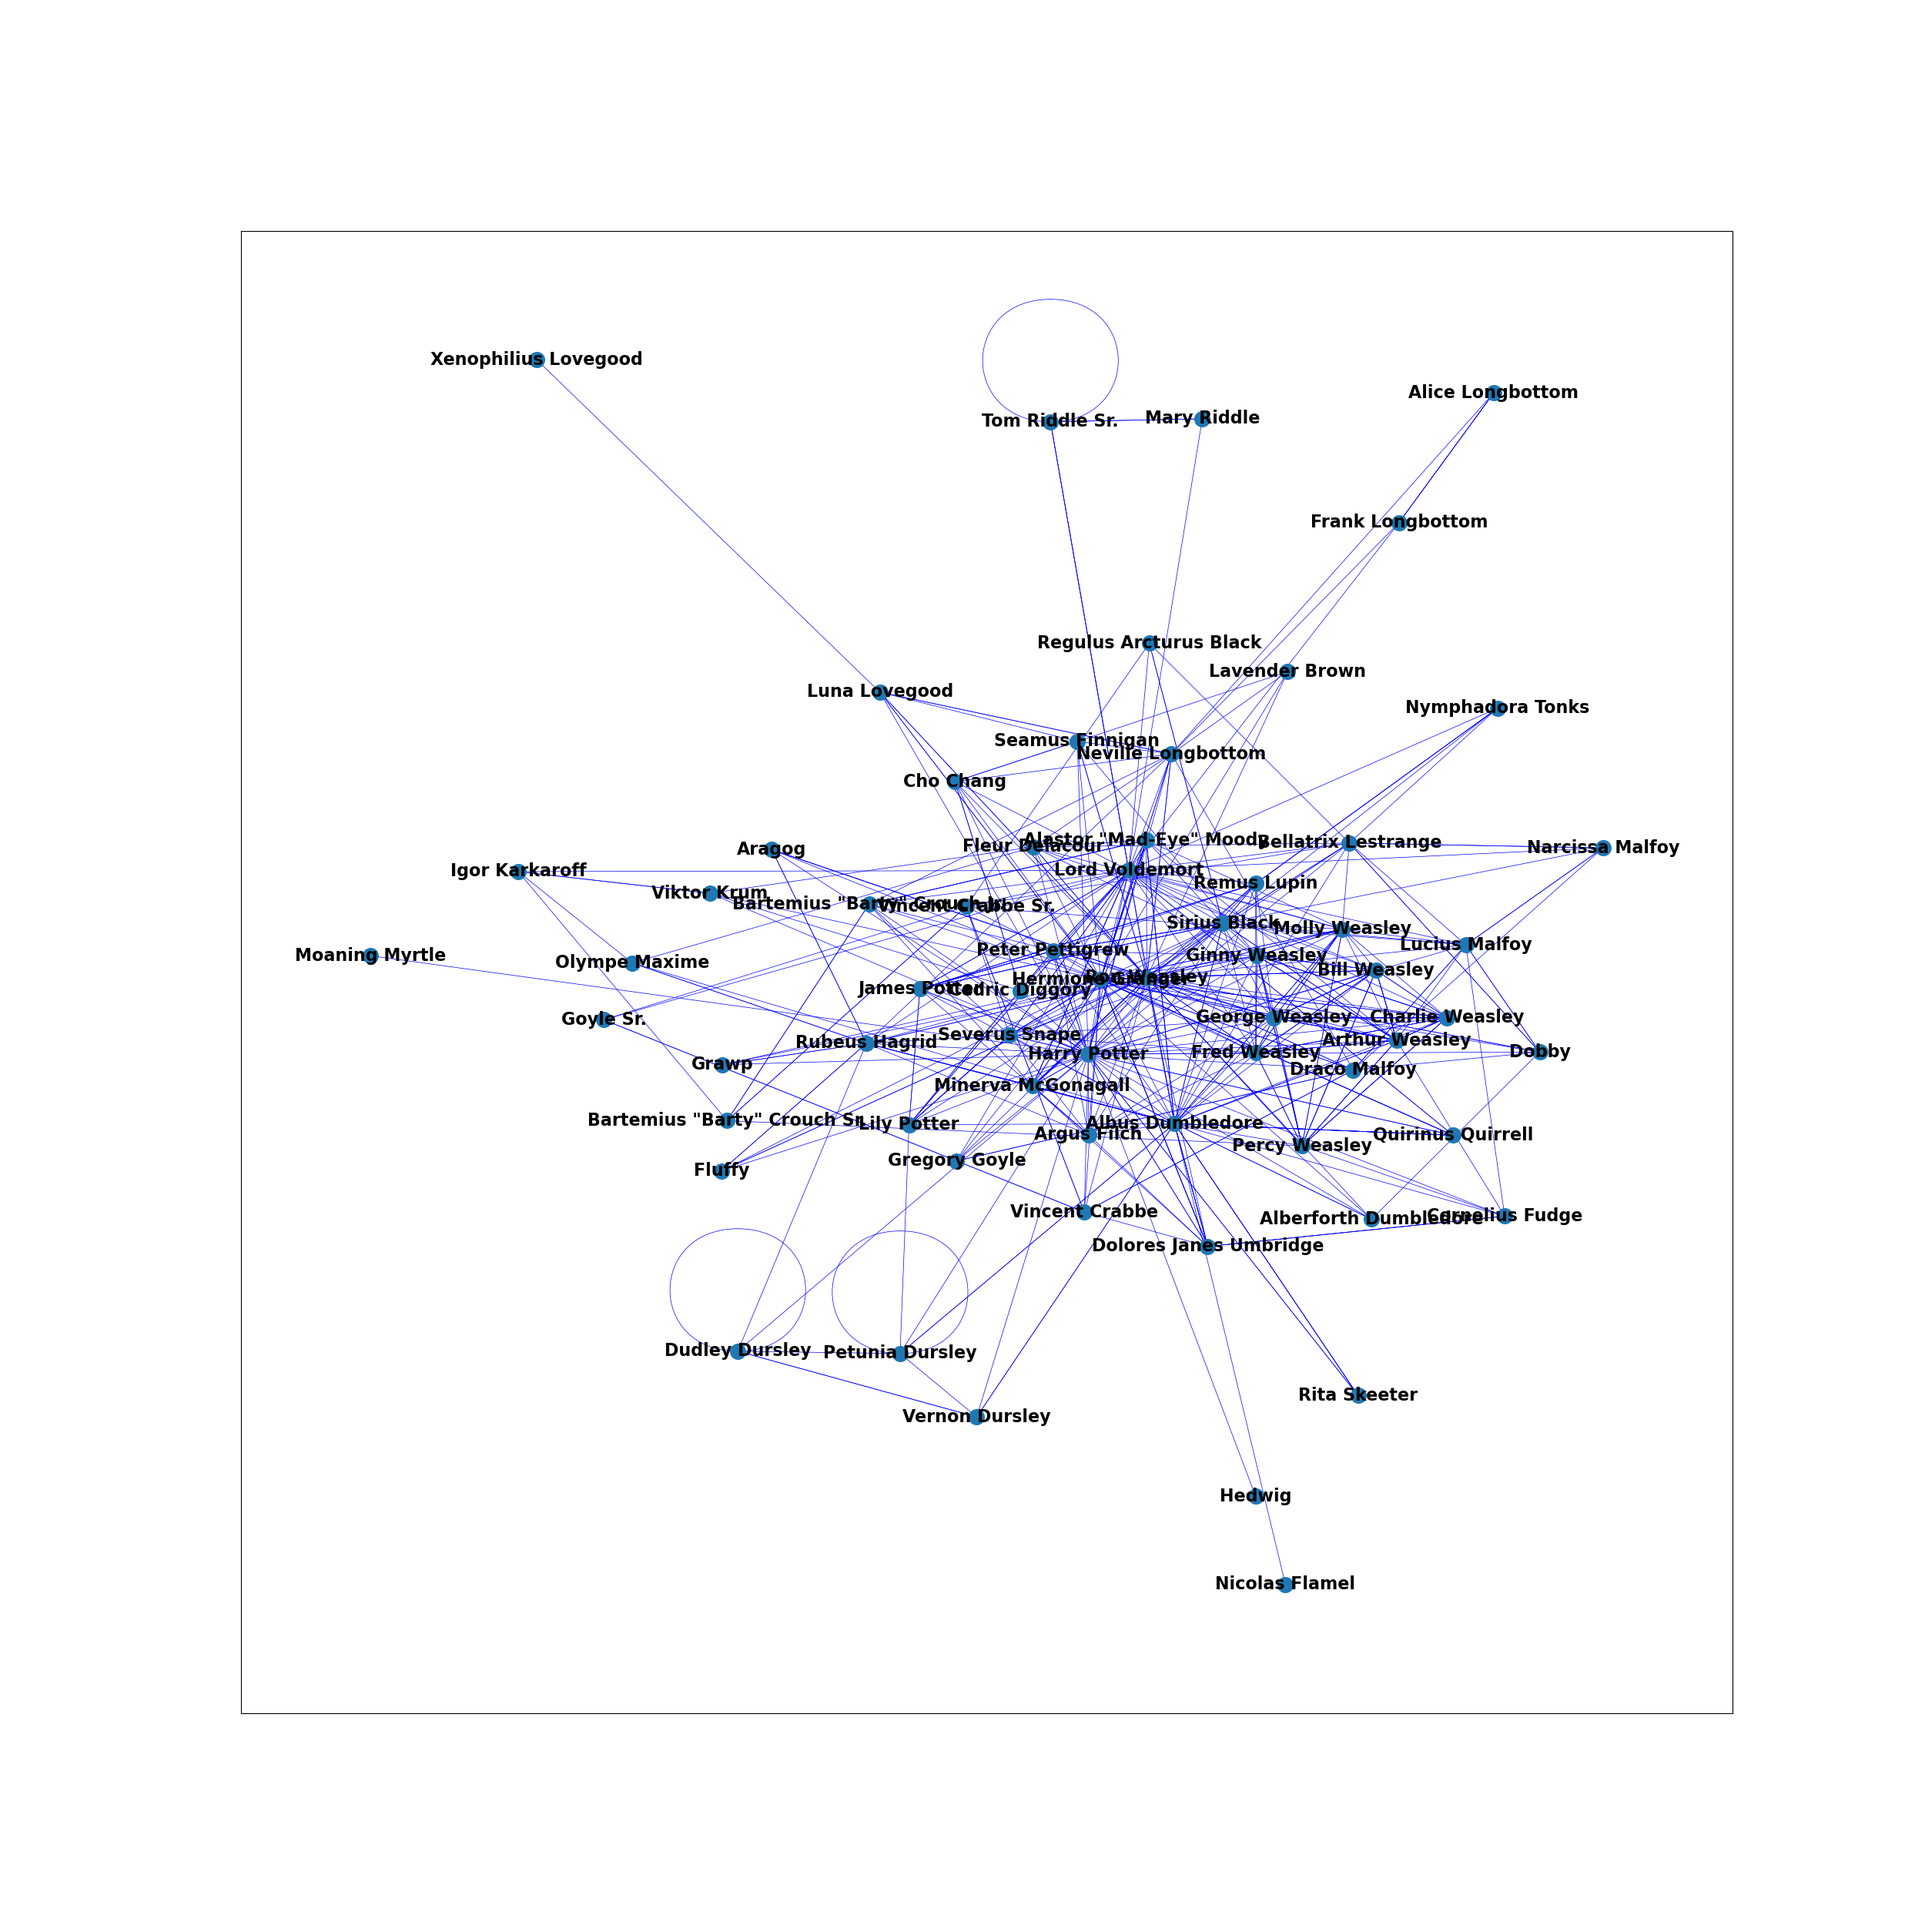
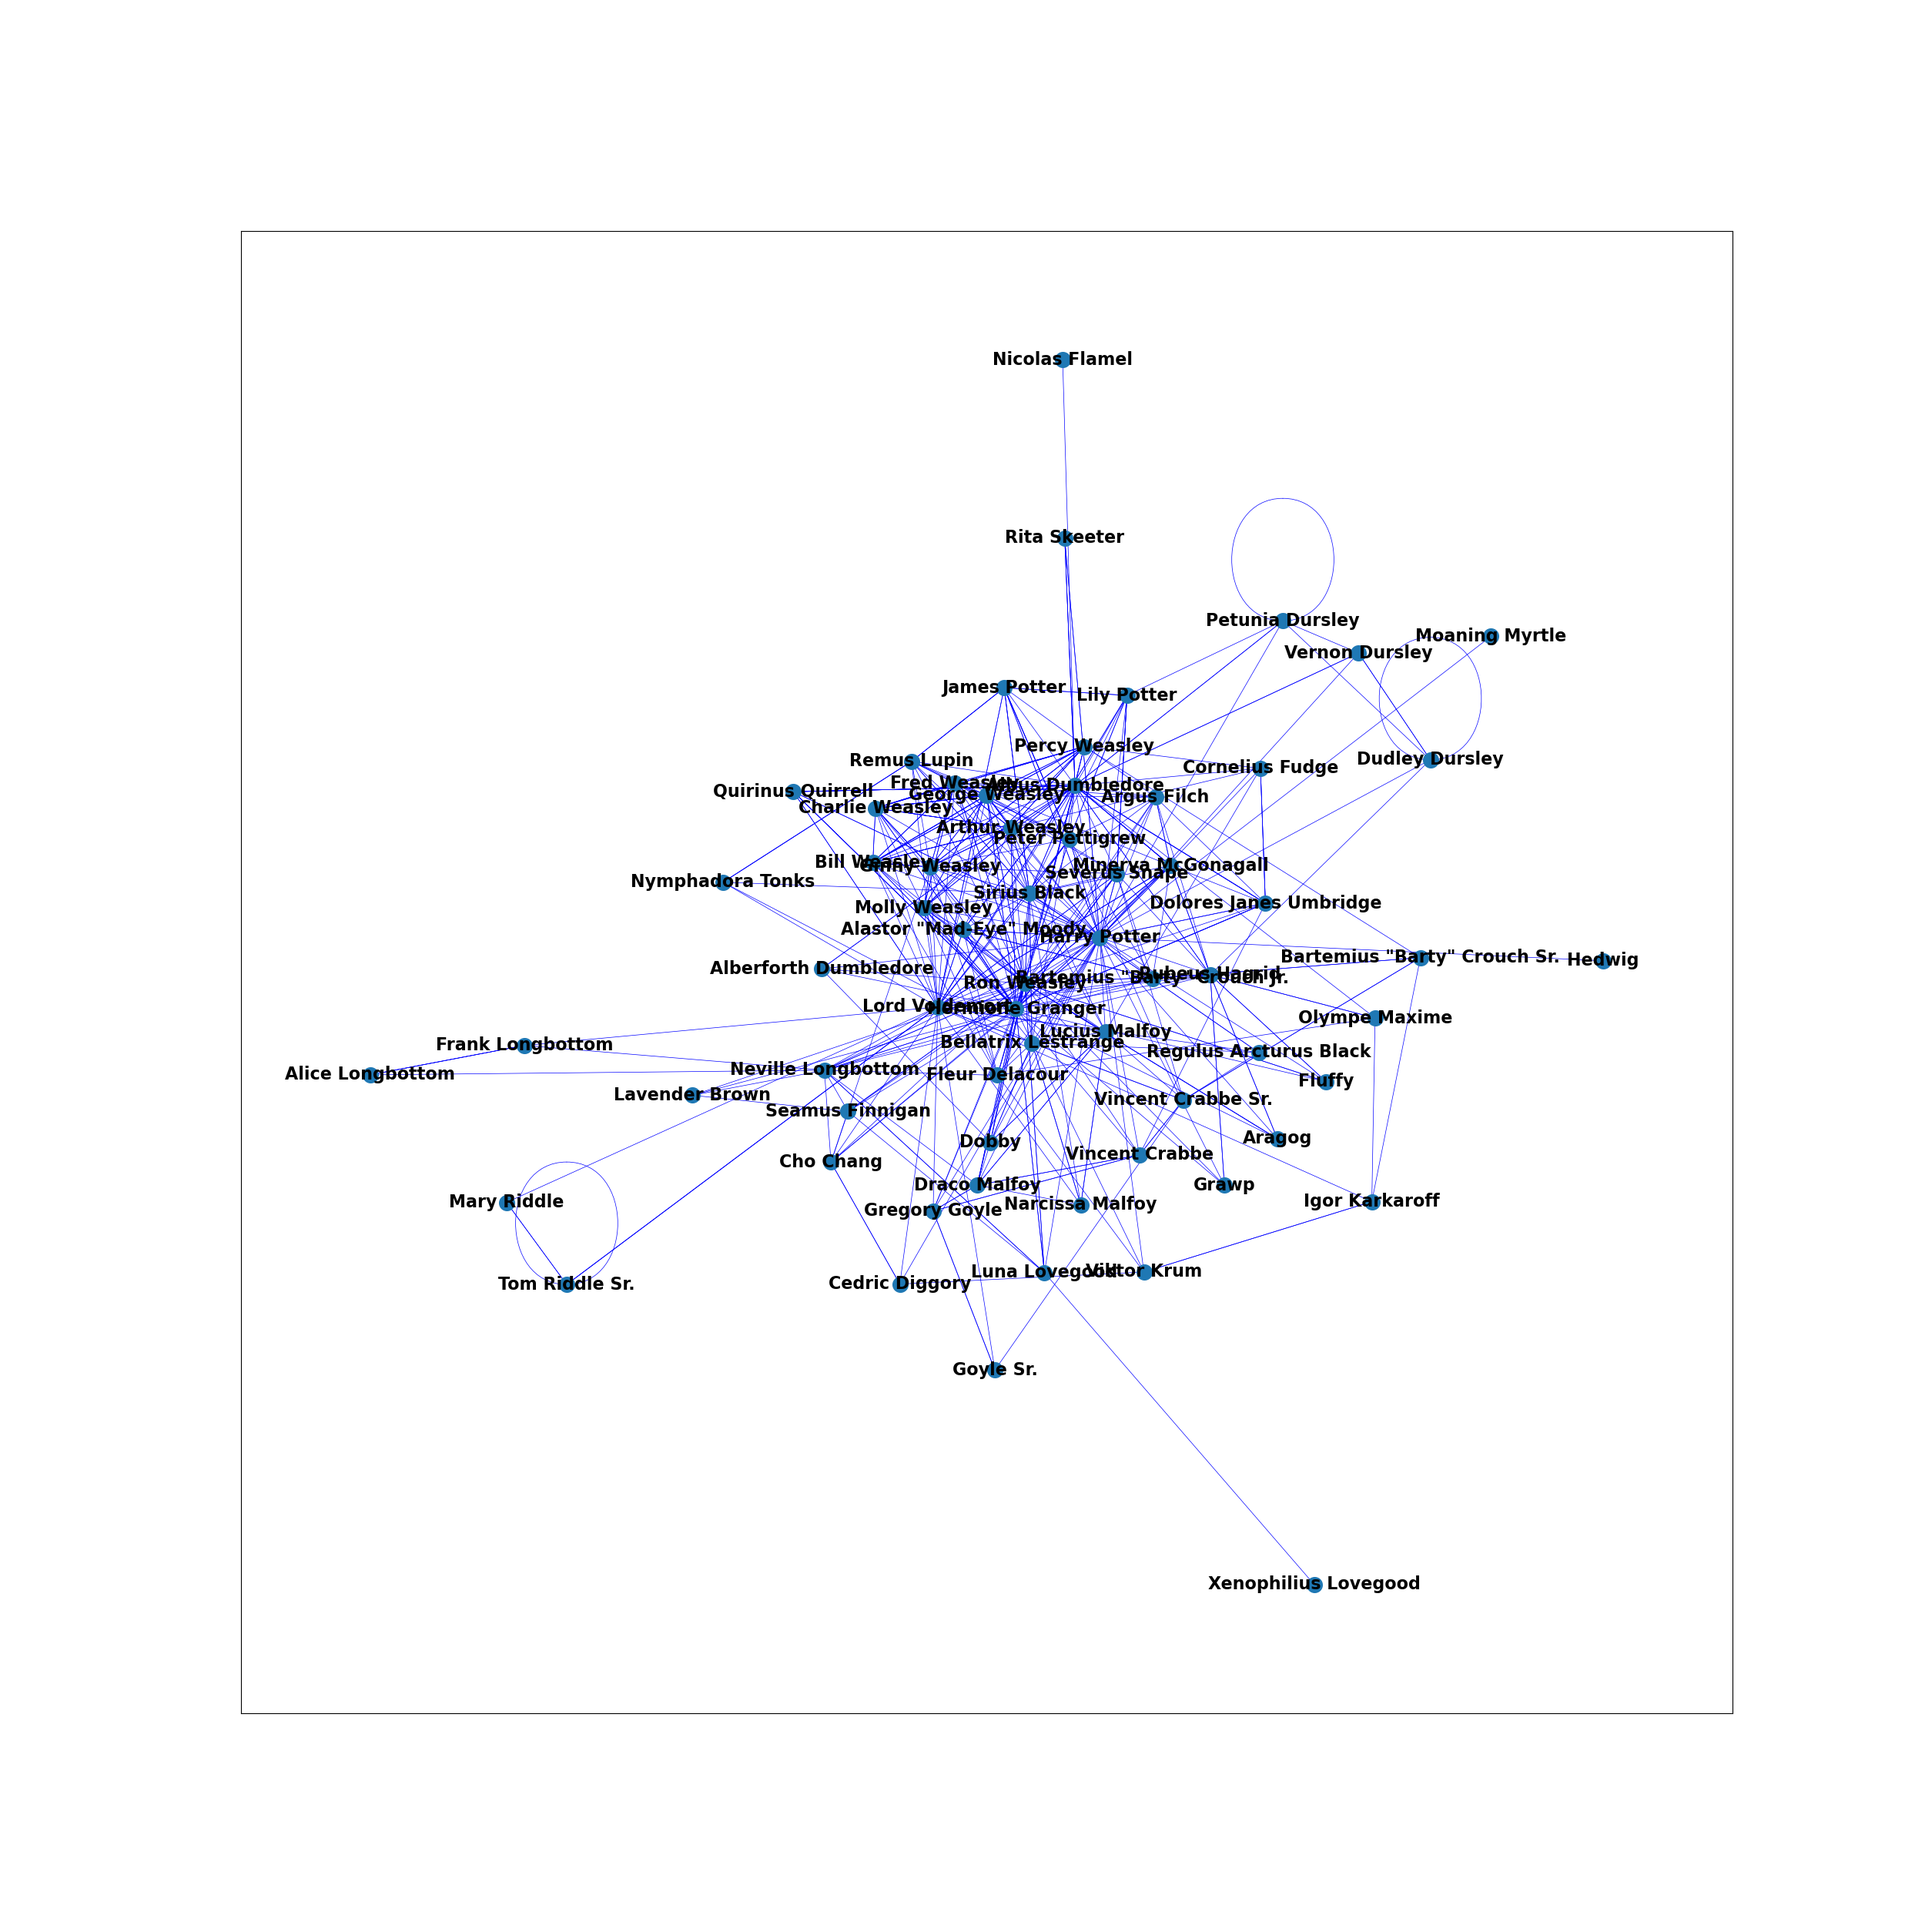
heatmap

diff --git a/NetworkX.py b/NetworkX.py
@@ -5,6 +5,29 @@ import matplotlib.pyplot as plt
 import matplotlib.colors as mcolors
 import seaborn as sns
 
+def draw(G, pos, measure_name):
+    measures = nx.degree_centrality(graph)
+    if (measure_name == "Closeness"):
+        measures = nx.closeness_centrality(graph)
+    elif (measure_name == "Degree"):
+        measures = nx.degree_centrality(graph)
+    elif (measure_name == "Eigenvector"):
+        measures = nx.eigenvector_centrality(graph)
+
+    nodes = nx.draw_networkx_nodes(G, pos, node_size=250, cmap=plt.cm.plasma,
+                                   node_color=list(measures.values()),
+                                   nodelist=measures.keys())
+    nodes.set_norm(mcolors.SymLogNorm(linthresh=0.01, linscale=1))
+
+    # labels = nx.draw_networkx_labels(G, pos)
+    edges = nx.draw_networkx_edges(G, pos)
+
+    plt.title(measure_name)
+    plt.colorbar(nodes)
+    plt.axis('off')
+    plt.savefig("grafici/heatmap_" + measure_name)
+    plt.show()
+
 def draw_network(pos, type):
     plt.figure(figsize=(25, 25))
     plt.figure(3, figsize=(25, 25))
@@ -73,59 +96,14 @@ for i in range(0, len(source_list)):
 
 graph = nx.Graph()
 graph.add_edges_from(edges_list)
-#pos = nx.spring_layout(graph)
 
-draw_network(nx.spring_layout(graph), "spring")
-'''draw_network(nx.kamada_kawai_layout(graph), "kamada")
+'''draw_network(nx.spring_layout(graph), "spring")
+draw_network(nx.kamada_kawai_layout(graph), "kamada")
 draw_network(nx.random_layout(graph), "random")
 draw_network(nx.shell_layout(graph), "shell")
-draw_network(nx.spiral_layout(graph), "spiral")'''
+draw_network(nx.spiral_layout(graph), "spiral")
 
-'''plt.figure(3, figsize=(20, 20))
-nx.draw_networkx_nodes(graph, nx.kamada_kawai_layout(graph), node_size=200)
-nx.draw_networkx_edges(graph, nx.kamada_kawai_layout(graph), edgelist=edges_list, edge_color='b', width=0.5)
-nx.draw_networkx_labels(graph, nx.kamada_kawai_layout(graph), labels=mapping, font_size=16,
-                        font_family='sans-serif', font_weight='bold')
-plt.savefig('grafici/network_kamada')
-plt.show()'''
-
-'''
-#closeness centrality
-clos = nx.closeness_centrality(graph)
-
-clos_df = pd.DataFrame(clos.items(), columns=["keys", "values"])
-plot_order = clos_df.groupby('keys')['values'].sum().sort_values(ascending=False).index.values
-
-values = clos_df.sort_values(["values"], ascending=False)
-matplotlib.rc_file_defaults()
-print(plot_order)
-ax1 = sns.set_style(style=None, rc=None)
-fig, ax1 = plt.subplots(figsize=(12,6))
-sns.lineplot(data=values["values"], marker='o', sort=True, ax=ax1)
-ax2 = ax1.twinx()
-plt.figure(figsize=(18,6))
-sns.barplot(x=list(clos.keys()), y=list(clos.values()), order=plot_order)
-plt.show()'''
-
-
-
-
-'''plot_centrality("Betweeness", graph)
-plot_centrality("Closeness", graph)
-plot_centrality("Degree", graph)
-plot_centrality("Eigenvector", graph)
-'''
-
-'''clos = nx.closeness_centrality(graph)
-
-clos_df = pd.DataFrame(clos.items(), columns=["keys", "values"])
-plot_order = clos_df.groupby('keys')['values'].sum().sort_values(ascending=False).index.values
-
-plt.figure(figsize=(18, 8))
-sns.histplot(list(clos.values()), kde=True)
-plt.show()'''
-
-'''plot_centrality_by_key("Betweeness", graph)
+plot_centrality_by_key("Betweeness", graph)
 plot_centrality_by_key("Closeness", graph)
 plot_centrality_by_key("Degree", graph)
 plot_centrality_by_key("Eigenvector", graph)
@@ -135,5 +113,9 @@ plot_centrality_distribution("Closeness", graph)
 plot_centrality_distribution("Degree", graph)
 plot_centrality_distribution("Eigenvector", graph)'''
 
+draw(graph, nx.spring_layout(graph), 'Betweeness')
+draw(graph, nx.spring_layout(graph), 'Closeness')
+draw(graph, nx.spring_layout(graph), 'Degree')
+draw(graph, nx.spring_layout(graph), 'Eigenvector')
 
 
